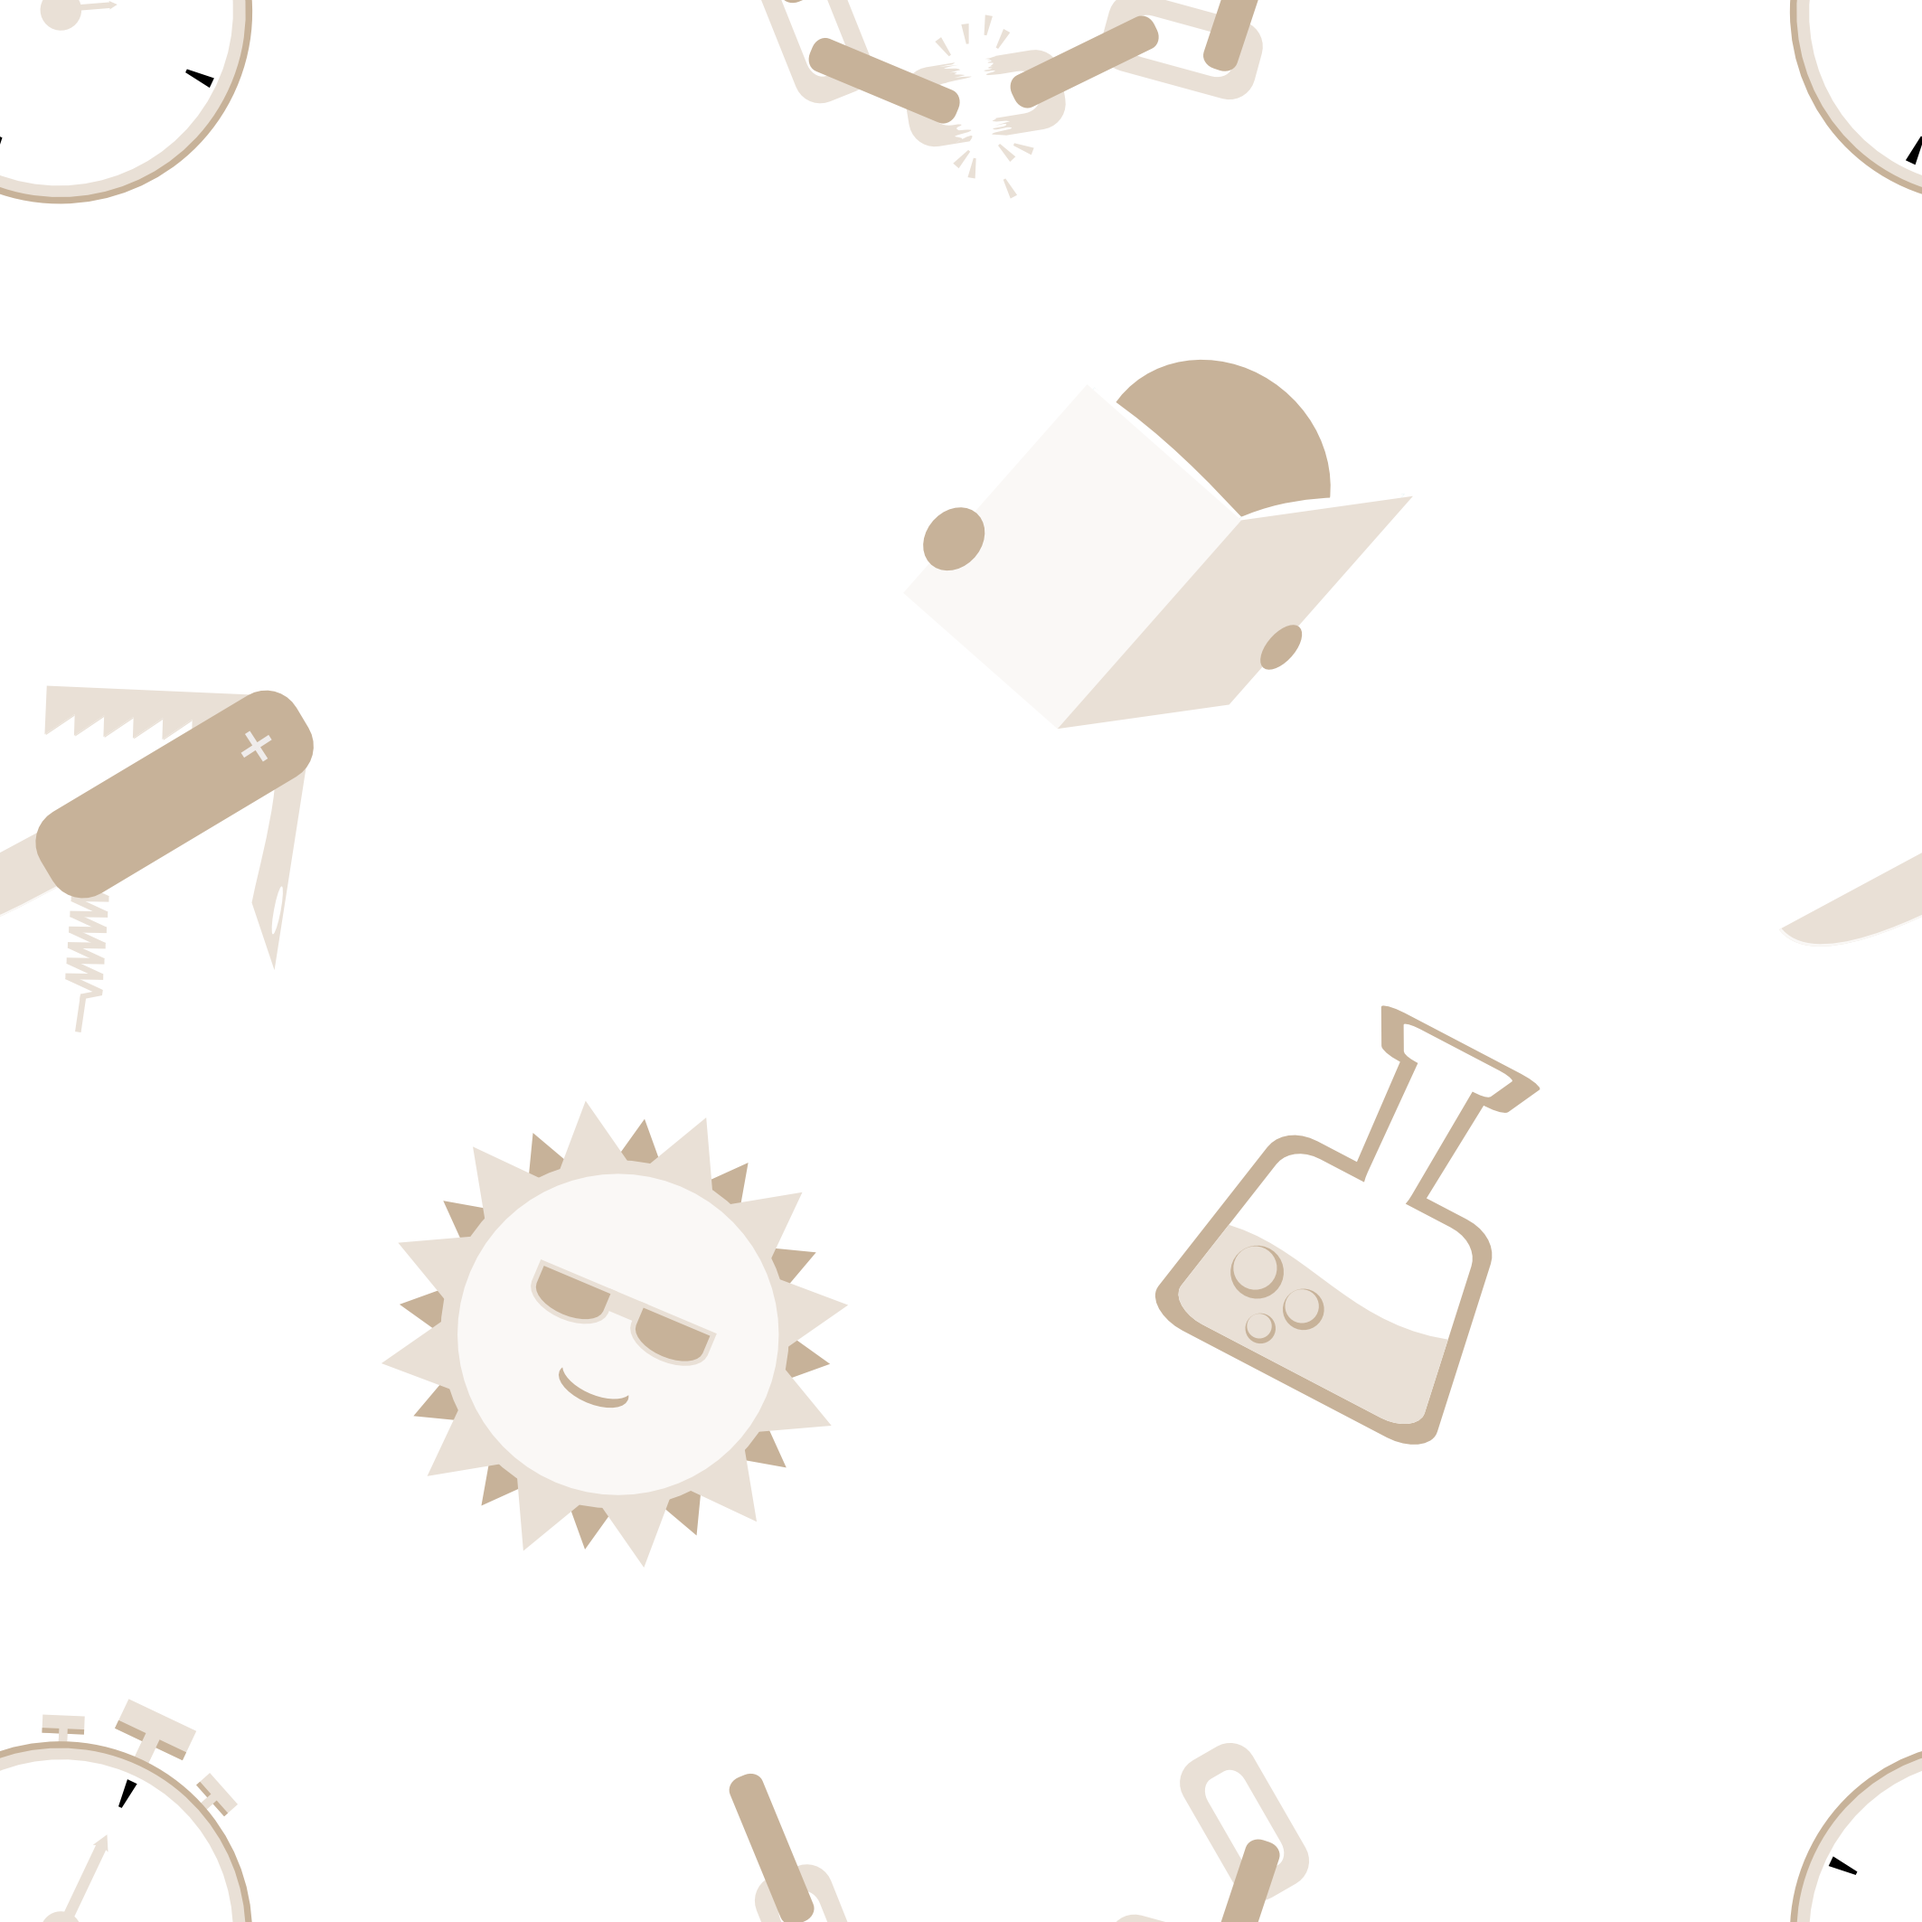
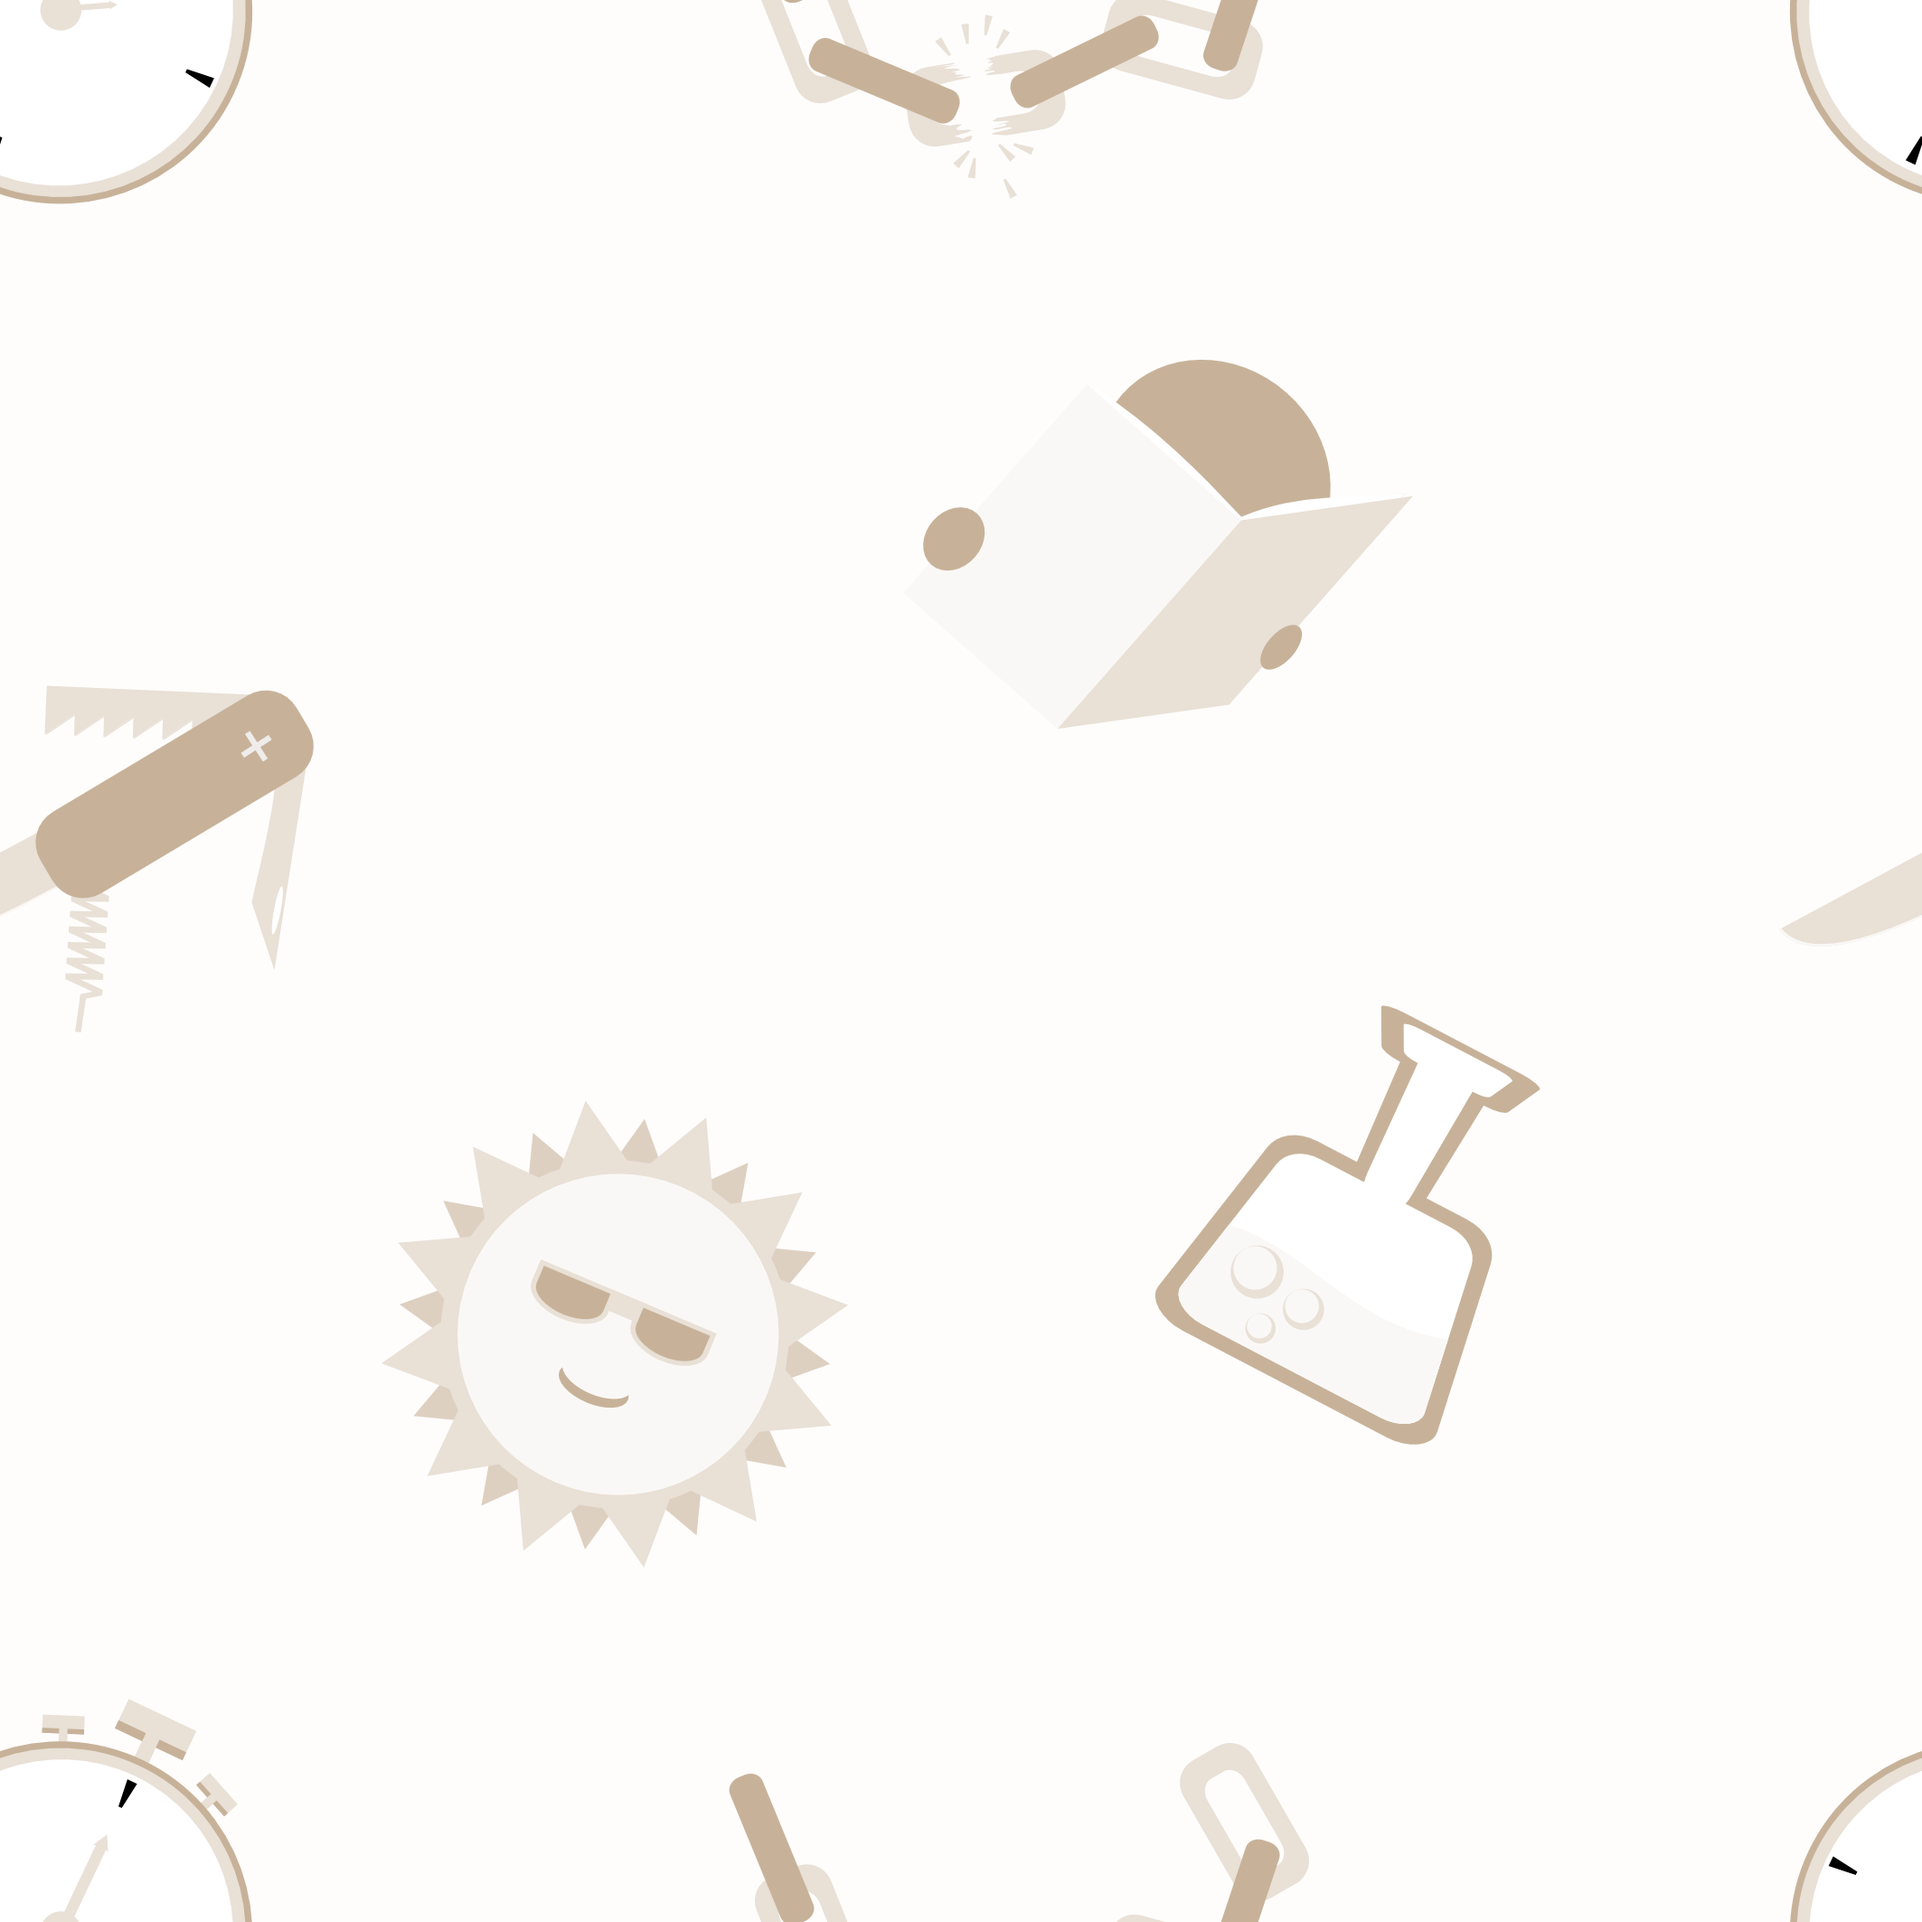
Changed some imagery

diff --git a/css/landing.css b/css/landing.css
@@ -50,7 +50,7 @@
 
 .background-pattern{
     background: #FFF;
-    background-image: url('/img/bg-pattern-orange-washed.png');
+    background-image: url('/img/bg-pattern-orange.png');
     background-size: 160px;
     background-attachment: fixed;
     background-position: 0px 0px;
